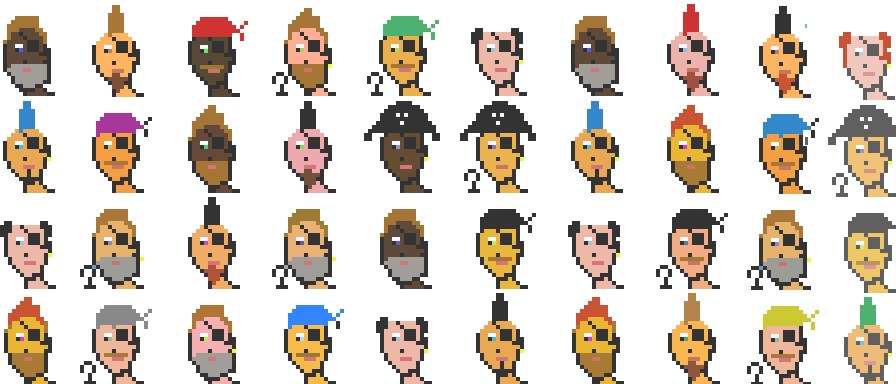
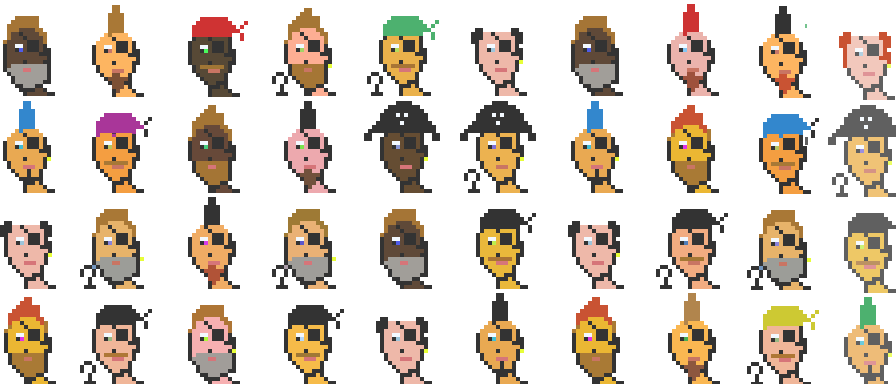
updating layout

Changed region(s): [[0.0938, 0.7812, 0.1875, 0.875], [0.3125, 0.7812, 0.375, 0.875]]

diff --git a/flutter_service_worker.js b/flutter_service_worker.js
@@ -4,8 +4,8 @@ const TEMP = 'flutter-temp-cache';
 const CACHE_NAME = 'flutter-app-cache';
 const RESOURCES = {
   "favicon.png": "5dcef449791fa27946b3d35ad8803796",
-"index.html": "ef572118c7d6bfb7a06754f8d6d269f1",
-"/": "ef572118c7d6bfb7a06754f8d6d269f1",
+"index.html": "79d08e8bb2147d770be8c227f1d4b907",
+"/": "79d08e8bb2147d770be8c227f1d4b907",
 "assets/packages/flutter_icons/fonts/FontAwesome.ttf": "b06871f281fee6b241d60582ae9369b9",
 "assets/packages/flutter_icons/fonts/SimpleLineIcons.ttf": "d2285965fe34b05465047401b8595dd0",
 "assets/packages/flutter_icons/fonts/FontAwesome5_Solid.ttf": "b70cea0339374107969eb53e5b1f603f",
@@ -25,7 +25,7 @@ const RESOURCES = {
 "assets/packages/cupertino_icons/assets/CupertinoIcons.ttf": "6d342eb68f170c97609e9da345464e5e",
 "assets/FontManifest.json": "7aaf3996738086bbd796613e14ef9e45",
 "assets/assets/github.png": "100ecb4618c10d74af9cecd6910dab3c",
-"assets/assets/CypherPirates.png": "d1db2f8afa3a212e05469b779c300836",
+"assets/assets/CypherPirates.png": "a0a8a3923e3460a01d38db35c14a46ed",
 "assets/assets/logo.png": "27fc136b23d377c88639168f505c8944",
 "assets/assets/twitter.png": "21dbb483fb5bb82cb025c5470d725b4d",
 "assets/fonts/MaterialIcons-Regular.otf": "4e6447691c9509f7acdbf8a931a85ca1",

diff --git a/index.html b/index.html
@@ -34,7 +34,7 @@
        application. For more information, see:
        https://developers.google.com/web/fundamentals/primers/service-workers -->
   <script>
-    var serviceWorkerVersion = '1612009390';
+    var serviceWorkerVersion = '2672268591';
     var scriptLoaded = false;
     function loadMainDartJs() {
       if (scriptLoaded) {

diff --git a/README.md b/README.md
@@ -2,6 +2,6 @@
 
 #NFTs on solana 
 
-Cryptopirates, unique collectible characters with proof of ownership stored on Solana
+CypherPirates, unique collectible characters with proof of ownership stored on Solana
 
 
